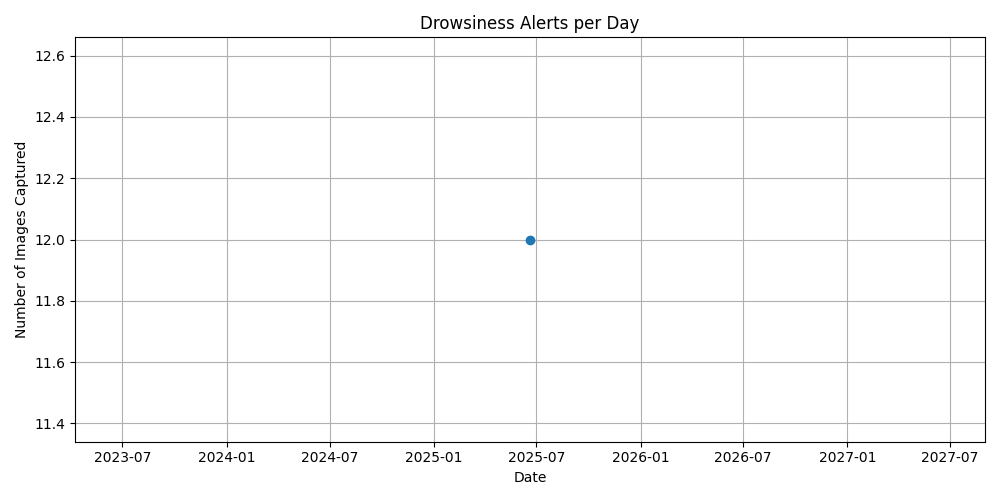
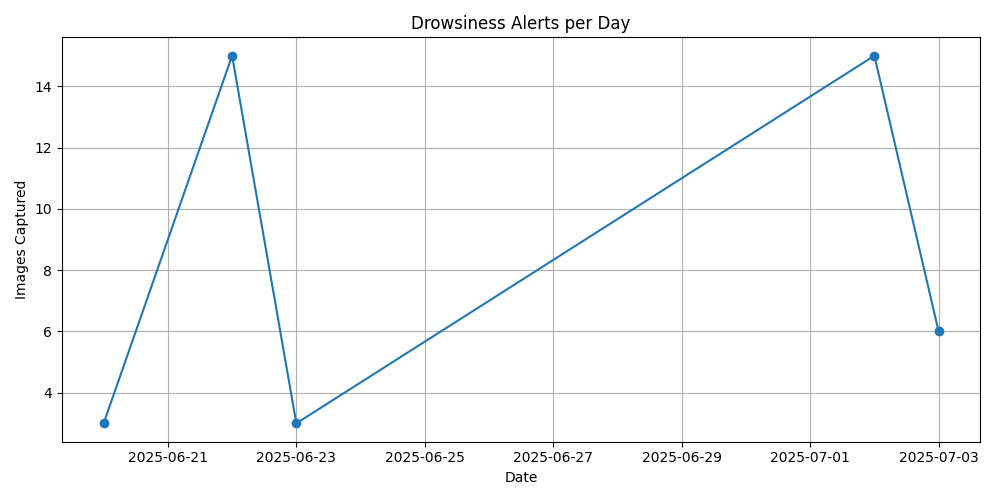
Initial commit - Drowsiness Detection System

diff --git a/detector.py b/detector.py
@@ -1,36 +1,32 @@
-
+# === detector.py ===
 import cv2
-import mediapipe as mp
 import numpy as np
 import os
 import datetime
 from scipy.spatial import distance as dist
-import simpleaudio as sa
+import pygame
+import face_alignment
 
 # ==== CONFIGURATION ====
 EAR_THRESHOLD = 0.30
-CONSEC_FRAMES = 38
-IMAGE_FOLDER = "image_clippings"
+MAR_THRESHOLD = 0.65
+CONSEC_FRAMES = 10
+NUM_IMAGES = 3
+IMAGE_FOLDER = r"D:\Preethi\OneDrive\Desktop\GIT Files\Driver Drowsiness Detection\image_clippings"
 ALARM_FILE = "alarm.wav"
-NUM_IMAGES = 3  # Capture this many images per alert
 
 # ==== PREPARE ====
 os.makedirs(IMAGE_FOLDER, exist_ok=True)
+pygame.mixer.init()
+if not pygame.mixer.get_init():
+    print("⚠ Pygame mixer failed to initialize!")
+pygame.mixer.music.load(ALARM_FILE)
 
-# Load alarm sound
-wave_obj = sa.WaveObject.from_wave_file(ALARM_FILE)
+fa = face_alignment.FaceAlignment('2D', flip_input=False, device='cpu')
 
-# Prepare face mesh detector
-mp_face_mesh = mp.solutions.face_mesh.FaceMesh(
-    max_num_faces=1,
-    refine_landmarks=True,
-    min_detection_confidence=0.5
-)
-
-# Capture
-cap = cv2.VideoCapture(0)
-counter = 0
-print("✅ Starting drowsiness detection...")
+LEFT_EYE = [36, 37, 38, 39, 40, 41]
+RIGHT_EYE = [42, 43, 44, 45, 46, 47]
+MOUTH = [60, 64, 62, 66, 63, 65, 61, 67, 59, 55]
 
 def eye_aspect_ratio(eye):
     A = dist.euclidean(eye[1], eye[5])
@@ -38,58 +34,77 @@ def eye_aspect_ratio(eye):
     C = dist.euclidean(eye[0], eye[3])
     return (A + B) / (2.0 * C)
 
+def mouth_aspect_ratio(mouth):
+    A = dist.euclidean(mouth[2], mouth[3])
+    B = dist.euclidean(mouth[0], mouth[1])
+    return A / B
+
+cap = cv2.VideoCapture(0)
+counter = 0
+alarm_on = False
+
+print("✅ Drowsiness detection started... Press 'q' or 'Esc' to quit.")
+
 try:
     while True:
         ret, frame = cap.read()
         if not ret:
             break
+
         rgb = cv2.cvtColor(frame, cv2.COLOR_BGR2RGB)
-        results = mp_face_mesh.process(rgb)
+        landmarks = fa.get_landmarks_from_image(rgb)
 
-        if results.multi_face_landmarks:
-            landmarks = results.multi_face_landmarks[0].landmark
-            h, w = frame.shape[:2]
+        if landmarks is None:
+            print("😕 No face detected.")
+            continue
 
-            left_eye_idx = [362, 385, 387, 263, 373, 380]
-            right_eye_idx = [33, 160, 158, 133, 153, 144]
+        shape = landmarks[0]
+        left_eye = np.array([shape[i] for i in LEFT_EYE])
+        right_eye = np.array([shape[i] for i in RIGHT_EYE])
+        mouth = np.array([shape[i] for i in MOUTH])
 
-            left_eye = np.array([[int(landmarks[i].x*w), int(landmarks[i].y*h)] for i in left_eye_idx])
-            right_eye = np.array([[int(landmarks[i].x*w), int(landmarks[i].y*h)] for i in right_eye_idx])
-            left_ear = eye_aspect_ratio(left_eye)
-            right_ear = eye_aspect_ratio(right_eye)
-            ear = (left_ear + right_ear) / 2.0
+        ear = (eye_aspect_ratio(left_eye) + eye_aspect_ratio(right_eye)) / 2.0
+        mar = mouth_aspect_ratio(mouth)
 
-            if ear < EAR_THRESHOLD:
-                counter += 1
-                if counter >= CONSEC_FRAMES:
-                    # Trigger alert
-                    timestamp = datetime.datetime.now().strftime("%Y%m%d_%H%M%S")
-                    date_folder = datetime.datetime.now().strftime("%Y-%m-%d")
-                    date_folder_path = os.path.join(IMAGE_FOLDER, date_folder)
-                    os.makedirs(date_folder_path, exist_ok=True)
+        if ear < EAR_THRESHOLD or mar > MAR_THRESHOLD:
+            counter += 1
+            if counter >= CONSEC_FRAMES:
+                if not alarm_on:
+                    alarm_on = True
+                    pygame.mixer.music.play(-1)
+                    print("🔔 Alarm should be playing now.")
 
-                    for i in range(NUM_IMAGES):
-                        img_name = f"{timestamp}_{i+1}.jpg"
-                        img_path = os.path.join(date_folder_path, img_name)
-                        cv2.imwrite(img_path, frame)
-                        wave_obj.play()
-                        cv2.putText(
-                            frame, f"DROWSINESS ALERT! Saved {i+1}/{NUM_IMAGES}",
-                            (50, 50), cv2.FONT_HERSHEY_SIMPLEX, 1, (0, 0, 255), 2
-                        )
-                        cv2.imshow('Driver Drowsiness Detection', frame)
-                        cv2.waitKey(200)  # brief wait between captures
+                timestamp = datetime.datetime.now().strftime("%Y%m%d_%H%M%S")
+                folder = datetime.datetime.now().strftime("%Y-%m-%d")
+                path = os.path.join(IMAGE_FOLDER, folder)
+                os.makedirs(path, exist_ok=True)
 
-                    counter = 0  # reset counter after capturing images
-            else:
+                for i in range(NUM_IMAGES):
+                    filename = f"{timestamp}_{i+1}.jpg"
+                    cv2.imwrite(os.path.join(path, filename), frame)
+                    cv2.putText(frame, f"DROWSINESS ALERT! Saved {i+1}/{NUM_IMAGES}",
+                                (10, 30), cv2.FONT_HERSHEY_SIMPLEX, 0.7, (0, 0, 255), 2)
+                    cv2.imshow("Driver Drowsiness Detection", frame)
+                    cv2.waitKey(200)
                 counter = 0
+        else:
+            counter = 0
+            if alarm_on:
+                pygame.mixer.music.stop()
+                alarm_on = False
 
-        cv2.imshow('Driver Drowsiness Detection', frame)
-        if cv2.waitKey(1) & 0xFF == ord('q'):
-            print("❌ Quitting...")
+        cv2.putText(frame, "Press 'Q' or 'Esc' to quit", (10, frame.shape[0] - 10),
+                    cv2.FONT_HERSHEY_SIMPLEX, 0.5, (255, 255, 255), 1)
+        cv2.imshow("Driver Drowsiness Detection", frame)
+        key = cv2.waitKey(1) & 0xFF
+        if key == ord('q') or key == 27:
+            print("❌ Stopped.")
             break
+
 except Exception as e:
-    print("Error:", e)
+    print("⚠ Error:", e)
+
 finally:
     cap.release()
     cv2.destroyAllWindows()
+    pygame.mixer.quit()

diff --git a/analyze.py b/analyze.py
@@ -4,58 +4,55 @@ import pandas as pd
 import matplotlib.pyplot as plt
 
 # ✅ Configuration
-IMAGE_FOLDER = "image_clippings"
+IMAGE_FOLDER = r"D:\Preethi\OneDrive\Desktop\GIT Files\Driver Drowsiness Detection\image_clippings"
 OUTPUT_DIR = "drowsiness_trends"
 os.makedirs(OUTPUT_DIR, exist_ok=True)
 
-# ✅ Gather all image files
+# ✅ Gather image files
 image_files = []
 for root, dirs, files in os.walk(IMAGE_FOLDER):
     for f in files:
         if f.endswith(".jpg"):
             image_files.append(os.path.join(root, f))
 
-# ✅ Parse timestamps from file names
+# ✅ Parse timestamps
 timestamps = []
 for path in image_files:
     name = os.path.basename(path)
-    match = re.search(r'(\d{8}_\d{6})', name)  # matches e.g. 20250620_223555
+    match = re.search(r'(\d{8}_\d{6})', name)
     if match:
         timestamps.append(pd.to_datetime(match.group(1), format="%Y%m%d_%H%M%S"))
     else:
-        print(f"⚠ Could not parse timestamp in {path}")
+        print(f"⚠ Could not parse timestamp: {name}")
 
 df = pd.DataFrame({"Timestamp": timestamps})
-df.sort_values('Timestamp', inplace=True)
+df.sort_values("Timestamp", inplace=True)
 
-print(f"✅ Total drowsiness images detected: {len(df)}")
-
-# 📊 Plot 1: Images per day
-df['date'] = df['Timestamp'].dt.date
-daily_counts = df.groupby('date').size()
+# 📊 Plot 1: Alerts per Day
+df["date"] = df["Timestamp"].dt.date
+daily = df.groupby("date").size()
 plt.figure(figsize=(10, 5))
-daily_counts.plot(marker='o')
-plt.title('Drowsiness Alerts per Day')
-plt.xlabel('Date')
-plt.ylabel('Number of Images Captured')
+daily.plot(marker='o')
+plt.title("Drowsiness Alerts per Day")
+plt.xlabel("Date")
+plt.ylabel("Images Captured")
 plt.grid(True)
 plt.tight_layout()
-plt.savefig(os.path.join(OUTPUT_DIR, 'daily_alerts.png'))
+plt.savefig(os.path.join(OUTPUT_DIR, "daily_alerts.png"))
 plt.close()
 
-# 📊 Plot 2: Images per Hour
-df['hour'] = df['Timestamp'].dt.hour
-hourly_counts = df.groupby('hour').size()
+# 📊 Plot 2: Alerts per Hour
+df["hour"] = df["Timestamp"].dt.hour
+hourly = df.groupby("hour").size()
 plt.figure(figsize=(8, 5))
-hourly_counts.plot(kind='bar', color='orange')
-plt.title('Drowsiness Alerts per Hour')
-plt.xlabel('Hour of the Day')
-plt.ylabel('Number of Images Captured')
+hourly.plot(kind='bar', color='orange')
+plt.title("Drowsiness Alerts per Hour")
+plt.xlabel("Hour of Day")
+plt.ylabel("Images Captured")
 plt.grid(axis='y')
 plt.tight_layout()
-plt.savefig(os.path.join(OUTPUT_DIR, 'hourly_alerts.png'))
+plt.savefig(os.path.join(OUTPUT_DIR, "hourly_alerts.png"))
 plt.close()
 
-# ✅ Summary
-print(f"✅ Analysis complete — Plots saved in '{OUTPUT_DIR}'")
-
+print(f"✅ Total images: {len(df)}")
+print(f"📁 Plots saved in: {os.path.abspath(OUTPUT_DIR)}")
